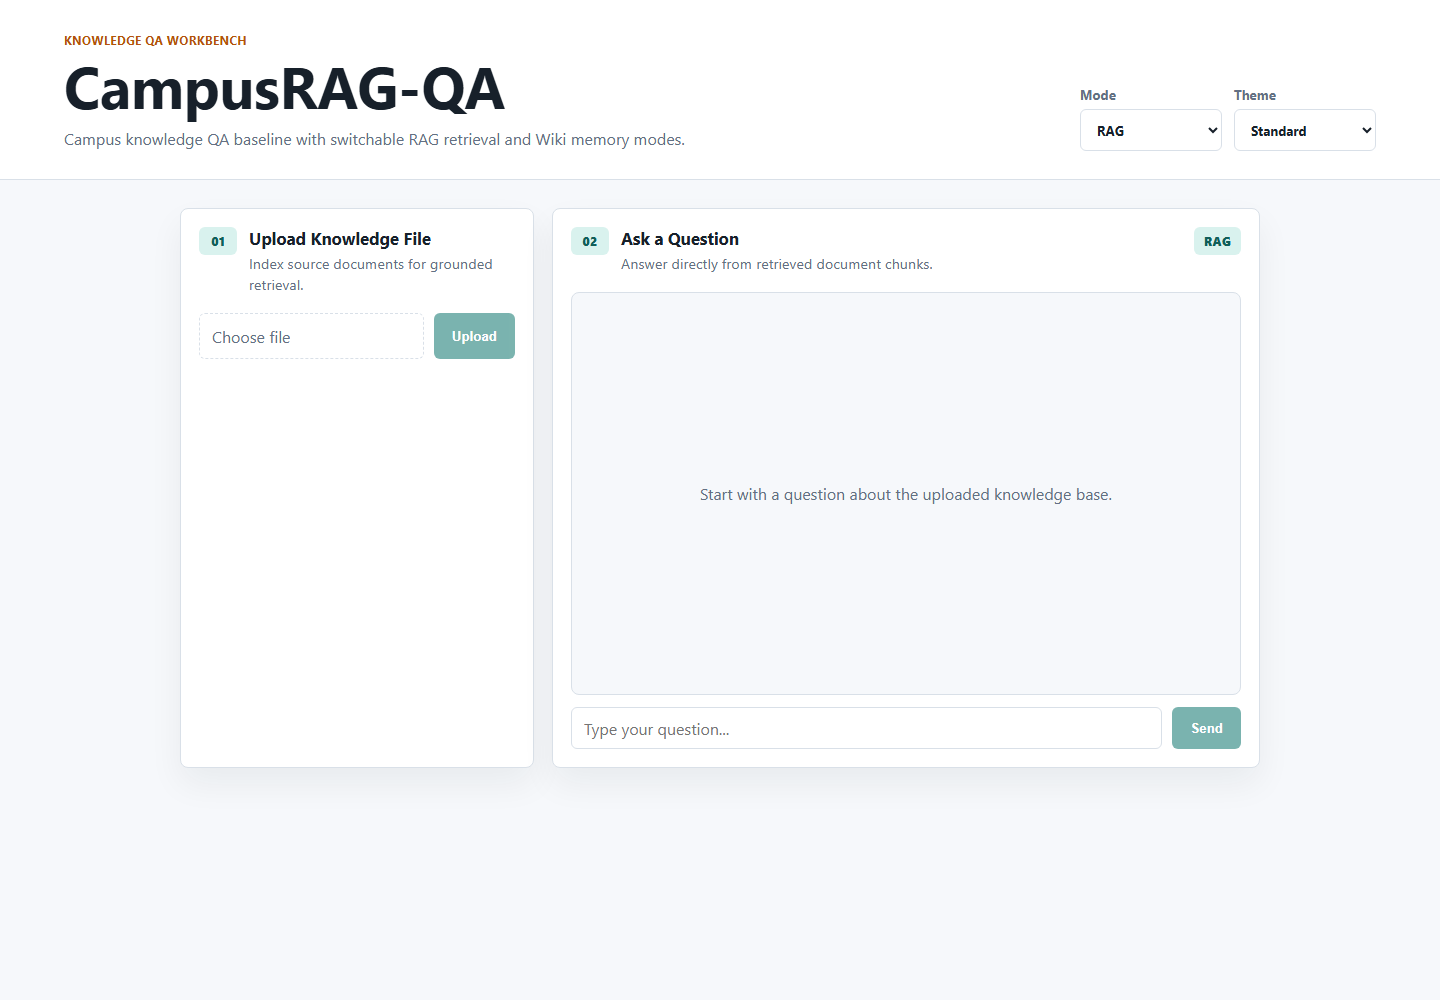
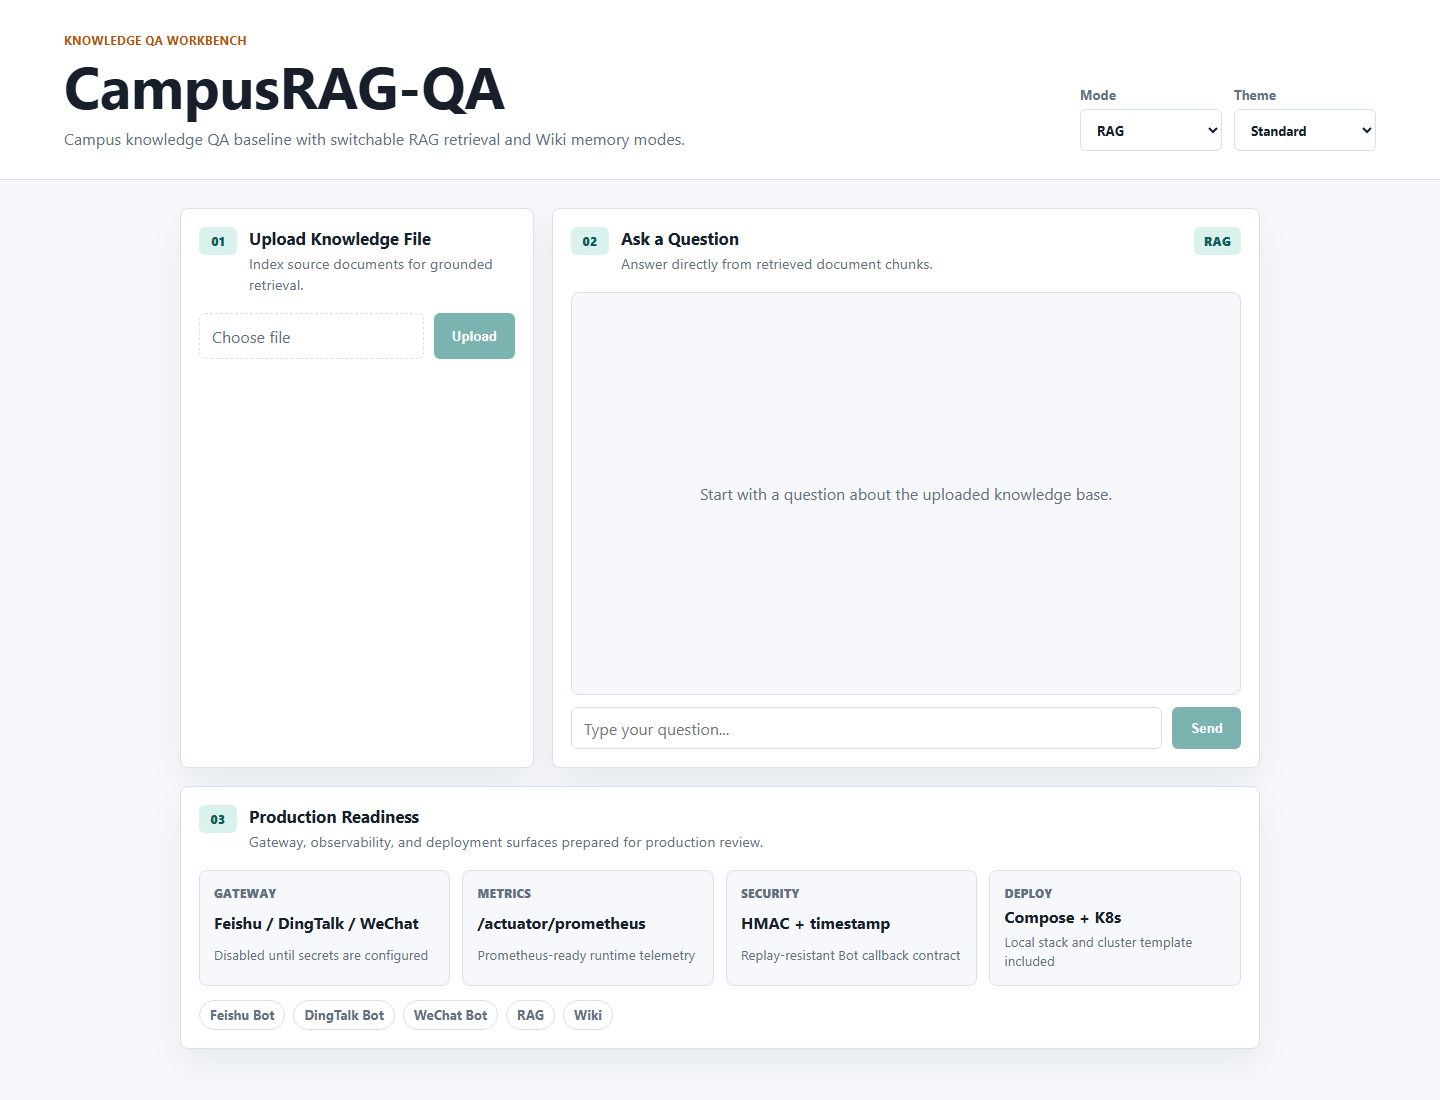
Harden production readiness and expand README visuals

diff --git a/frontend/src/App.vue b/frontend/src/App.vue
@@ -92,6 +92,30 @@
           </button>
         </div>
       </section>
+
+      <section class="panel readiness-panel">
+        <div class="panel-heading">
+          <span class="step">03</span>
+          <div>
+            <h2>Production Readiness</h2>
+            <p>{{ readinessSubtitle }}</p>
+          </div>
+        </div>
+
+        <div class="signal-grid">
+          <article v-for="signal in readinessSignals" :key="signal.label" class="signal-card">
+            <span>{{ signal.label }}</span>
+            <strong>{{ signal.value }}</strong>
+            <small>{{ signal.detail }}</small>
+          </article>
+        </div>
+
+        <div class="integration-strip">
+          <span v-for="channel in botChannels" :key="channel" class="integration-pill">
+            {{ channel }}
+          </span>
+        </div>
+      </section>
     </main>
   </div>
 </template>
@@ -160,6 +184,17 @@ const themes = {
   },
 };
 
+const readinessSubtitle = 'Gateway, observability, and deployment surfaces prepared for production review.';
+
+const readinessSignals = [
+  { label: 'Gateway', value: 'Feishu / DingTalk / WeChat', detail: 'Disabled until secrets are configured' },
+  { label: 'Metrics', value: '/actuator/prometheus', detail: 'Prometheus-ready runtime telemetry' },
+  { label: 'Security', value: 'HMAC + timestamp', detail: 'Replay-resistant Bot callback contract' },
+  { label: 'Deploy', value: 'Compose + K8s', detail: 'Local stack and cluster template included' },
+];
+
+const botChannels = ['Feishu Bot', 'DingTalk Bot', 'WeChat Bot', 'RAG', 'Wiki'];
+
 const selectedFile = ref(null);
 const uploadStatus = ref('');
 const uploading = ref(false);
@@ -180,8 +215,38 @@ function applyTheme() {
   });
 }
 
-onMounted(applyTheme);
+onMounted(() => {
+  applyRoutePreview();
+  applyTheme();
+});
 watch(selectedTheme, applyTheme);
+
+function applyRoutePreview() {
+  const params = new URLSearchParams(window.location.search);
+  const mode = params.get('mode');
+  const theme = params.get('theme');
+  const demo = params.get('demo');
+
+  if (modes.some((candidate) => candidate.value === mode)) {
+    selectedMode.value = mode;
+  }
+  if (theme && themes[theme]) {
+    selectedTheme.value = theme;
+  }
+  if (demo === 'conversation') {
+    messages.value = [
+      { id: ++messageCounter, role: 'User', content: 'How do students apply for campus card replacement?' },
+      {
+        id: ++messageCounter,
+        role: 'Assistant',
+        content: `${currentMode.value.label} checked retrieved policy chunks and returned a grounded answer with missing-evidence guardrails.`,
+      },
+    ];
+  }
+  if (demo === 'upload') {
+    uploadStatus.value = `Indexed handbook.md for ${currentMode.value.label}.`;
+  }
+}
 
 function onFileChange(event) {
   selectedFile.value = event.target.files?.[0] ?? null;
@@ -480,6 +545,64 @@ select {
   flex-direction: column;
 }
 
+.readiness-panel {
+  grid-column: 1 / -1;
+}
+
+.signal-grid {
+  display: grid;
+  grid-template-columns: repeat(4, minmax(0, 1fr));
+  gap: 12px;
+}
+
+.signal-card {
+  display: grid;
+  gap: 6px;
+  min-width: 0;
+  padding: 14px;
+  border: 1px solid var(--line);
+  border-radius: 8px;
+  background: var(--surface-muted);
+}
+
+.signal-card span {
+  color: var(--muted);
+  font-size: 0.76rem;
+  font-weight: 800;
+  text-transform: uppercase;
+}
+
+.signal-card strong {
+  color: var(--text);
+  font-size: 1rem;
+  line-height: 1.25;
+}
+
+.signal-card small {
+  color: var(--muted);
+  line-height: 1.4;
+}
+
+.integration-strip {
+  display: flex;
+  flex-wrap: wrap;
+  gap: 8px;
+  margin-top: 14px;
+}
+
+.integration-pill {
+  display: inline-flex;
+  align-items: center;
+  min-height: 30px;
+  padding: 0 10px;
+  border: 1px solid var(--line);
+  border-radius: 999px;
+  background: var(--surface);
+  color: var(--muted);
+  font-size: 0.82rem;
+  font-weight: 700;
+}
+
 .messages {
   flex: 1;
   min-height: 360px;
@@ -623,6 +746,10 @@ select {
 
   .message {
     max-width: 92%;
+  }
+
+  .signal-grid {
+    grid-template-columns: 1fr;
   }
 }
 </style>

diff --git a/frontend/index.html b/frontend/index.html
@@ -14,4 +14,3 @@
     <script type="module" src="/src/main.js"></script>
   </body>
 </html>
-

diff --git a/README.md b/README.md
@@ -16,6 +16,8 @@
   <a href="#quick-start">Quick Start</a> |
   <a href="docs/OPERATIONS.md">Operations</a> |
   <a href="docs/PRODUCTION-ARCHITECTURE.md">Architecture</a> |
+  <a href="docs/PRODUCTION-GAPS.md">Production Gaps</a> |
+  <a href="docs/MAINTENANCE.md">Maintenance</a> |
   <a href="docs/BOT-INTEGRATION.md">Bot Integration</a> |
   <a href="docs/OPEN_SOURCE_REFERENCES.md">References</a>
 </p>
@@ -45,13 +47,17 @@ CampusRAG-QA is the clean baseline in the Campus QA family. It keeps the product
 | Bot gateway | `/api/bot/{channel}/callback` routes normalized Feishu, DingTalk, and WeChat messages. |
 | Frontend | Vue 3 workbench with mode switch, upload flow, and streaming-ready chat panel. |
 
-## Frontend Preview
+## Visual Walkthrough
 
-The README shows the real UI surface users see after running the app. Keep this screenshot current when the frontend changes.
+Six README-owned screenshots show the runnable workbench across modes, data flow, Bot readiness, and mobile layout.
 
-<p align="center">
-  <img src="docs/assets/screenshots/campus-rag-dashboard.png" alt="CampusRAG-QA workbench" width="920">
-</p>
+| Dashboard | Wiki mode | Upload state |
+| --- | --- | --- |
+| <img src="docs/assets/screenshots/campus-rag-dashboard.png" alt="CampusRAG-QA dashboard" width="300"> | <img src="docs/assets/screenshots/campus-rag-wiki-mode.png" alt="CampusRAG-QA Wiki mode" width="300"> | <img src="docs/assets/screenshots/campus-rag-upload-state.png" alt="CampusRAG-QA upload state" width="300"> |
+
+| Conversation | Production readiness | Mobile |
+| --- | --- | --- |
+| <img src="docs/assets/screenshots/campus-rag-conversation.png" alt="CampusRAG-QA conversation" width="300"> | <img src="docs/assets/screenshots/campus-rag-readiness.png" alt="CampusRAG-QA production readiness" width="300"> | <img src="docs/assets/screenshots/campus-rag-mobile.png" alt="CampusRAG-QA mobile" width="160"> |
 
 ## Architecture
 
@@ -107,14 +113,18 @@ frontend/             Vue 3 workbench
 docs/assets/          README screenshots
 docs/OPERATIONS.md    Runtime and endpoint notes
 docs/PRODUCTION-ARCHITECTURE.md
+docs/PRODUCTION-GAPS.md
+docs/MAINTENANCE.md
 docs/BOT-INTEGRATION.md
+docs/SCREENSHOTS.md
 docs/openapi/          API contract templates
 deploy/k8s/            Kubernetes deployment template
 docs/PRODUCTION-REVIEW.md
+SECURITY.md            Security policy and secret-handling notes
 docker-compose.yml    Full local runtime stack
 .env.example          Runtime configuration template
 ```
 
 ## Production Readiness
 
-See [Production Review](docs/PRODUCTION-REVIEW.md) for the detailed audit. The next highest-impact work is structured citations, richer document parsing, reranking, access control, and Docker Compose smoke tests in CI.
+See [Production Review](docs/PRODUCTION-REVIEW.md) and [Production Gaps](docs/PRODUCTION-GAPS.md) for the detailed audit. The remaining production blockers are authentication, tenant-scoped data isolation, Bot idempotency, and structured citations.

diff --git a/docs/PRODUCTION-GAPS.md b/docs/PRODUCTION-GAPS.md
@@ -1,0 +1,36 @@
+# Remaining Production Gaps
+
+This repository is deployable as a small campus QA service, but it still needs the following work before being treated as a mature production system.
+
+## P0 Before Real Users
+
+| Gap | Impact | Recommended fix |
+| --- | --- | --- |
+| No user authentication | Anyone reaching the API can upload and query documents. | Add OAuth/OIDC or gateway auth before public exposure. |
+| No tenant-scoped document isolation | One school's data can mix with another if reused in multi-tenant mode. | Add `tenantId` to documents, chunks, conversations, and retrieval filters. |
+| No Bot idempotency store | Platform retries can trigger duplicate LLM calls. | Store `(channel, messageId)` in Redis or MySQL with TTL. |
+| No source citation response model | Operators cannot audit why an answer was produced. | Return answer plus chunk IDs, document names, and scores. |
+
+## P1 Operational Hardening
+
+| Gap | Impact | Recommended fix |
+| --- | --- | --- |
+| `ddl-auto: update` | Schema changes are implicit. | Introduce Flyway/Liquibase migrations. |
+| Limited document parsing | UTF-8 text works, PDFs/DOCX/HTML are narrow. | Add Tika or dedicated parsers with file-type validation. |
+| No reranker | Retrieval quality can drop as corpus grows. | Add a reranking step before prompt assembly. |
+| No alert rules | Metrics exist but no alert policy. | Add Prometheus alert rules for 5xx, latency, memory, and disk. |
+
+## P2 Product Refinement
+
+| Gap | Impact | Recommended fix |
+| --- | --- | --- |
+| SSE emits one completed event | UI is streaming-ready but model output is not truly token streaming. | Switch chat model calls to streaming APIs. |
+| No evaluation set | Regressions are hard to detect. | Add golden campus QA examples and CI evaluation. |
+| No admin console | Uploads and index health are not visible to operators. | Add an authenticated operator dashboard later. |
+
+## Maintenance Focus
+
+- Keep this repo intentionally small: RAG plus Wiki only.
+- Avoid adding Agent/GBrain/Hyper logic here; use the other two repositories for those paths.
+- Update README screenshots whenever the workbench UI changes.
+- Run `mvn -B test`, `npm run build`, and `npm audit --audit-level=moderate` before releases.

diff --git a/docs/MAINTENANCE.md b/docs/MAINTENANCE.md
@@ -1,0 +1,35 @@
+# Maintenance Guide
+
+## Release Checklist
+
+1. Update screenshots if the UI changed.
+2. Run backend validation: `cd backend && mvn -B test`.
+3. Run frontend validation: `cd frontend && npm ci && npm run build && npm audit --audit-level=moderate`.
+4. Check local config: `cp .env.example .env && docker compose config`.
+5. Review secrets: `.env`, API keys, Bot tokens, and uploaded documents must not be committed.
+6. Tag the release after CI passes.
+
+## Weekly Maintenance
+
+| Area | Action |
+| --- | --- |
+| Dependencies | Review Dependabot PRs for Maven, npm, and GitHub Actions. |
+| Security | Rotate shared test secrets and confirm `.env.example` contains placeholders only. |
+| Operations | Check health, 5xx rate, p95 latency, JVM memory, and disk usage. |
+| Retrieval quality | Re-run a small campus QA evaluation set before changing chunking or prompts. |
+| Docs | Keep README, OpenAPI, Bot guide, and production gaps aligned with code. |
+
+## Alert Suggestions
+
+| Signal | Threshold | Action |
+| --- | --- | --- |
+| HTTP 5xx | More than 2% for 5 minutes | Inspect backend logs and provider errors. |
+| p95 latency | More than 8 seconds for 10 minutes | Check model latency and vector store latency. |
+| JVM memory | More than 85% for 10 minutes | Inspect document ingestion and chunk size. |
+| Bot auth failures | Sudden spike | Check token rotation, replay attempts, or provider config. |
+
+## Versioning
+
+- Use semantic tags such as `v0.1.0`.
+- Keep breaking API changes out of patch releases.
+- Update `docs/openapi/bot-gateway.yaml` in the same PR as API behavior changes.

diff --git a/SECURITY.md b/SECURITY.md
@@ -1,0 +1,21 @@
+# Security Policy
+
+## Supported Branch
+
+Security fixes target `main` until release branches are introduced.
+
+## Reporting
+
+Do not open public issues for secrets, authentication bypasses, data leaks, or prompt injection vulnerabilities. Use a private maintainer channel first.
+
+## Secret Handling
+
+- Never commit `.env`, model keys, Bot tokens, signing secrets, or uploaded private documents.
+- Rotate `OPENAI_API_KEY`, `BOT_SIGNING_SECRET`, and platform tokens before production launch.
+- Store production secrets in CI secrets, a secret manager, or Kubernetes Secrets.
+
+## Production Controls
+
+- Keep `BOT_ENABLED=false` until provider-native verification and internal HMAC signing are configured.
+- Put public traffic behind HTTPS, rate limiting, and request size limits.
+- Treat `tenantId` as the future authorization boundary for documents, conversations, and Bot channels.

diff --git a/docs/SCREENSHOTS.md b/docs/SCREENSHOTS.md
@@ -1,0 +1,14 @@
+# Screenshot Inventory
+
+The README uses six product screenshots generated from the real Vue workbench.
+
+| File | Purpose |
+| --- | --- |
+| `campus-rag-dashboard.png` | Main RAG dashboard. |
+| `campus-rag-wiki-mode.png` | Wiki mode switch. |
+| `campus-rag-upload-state.png` | Upload and indexing state. |
+| `campus-rag-conversation.png` | Seeded conversation state. |
+| `campus-rag-readiness.png` | Production readiness and Bot integration cards. |
+| `campus-rag-mobile.png` | Mobile layout. |
+
+Refresh these files after changing `frontend/src/App.vue`.
